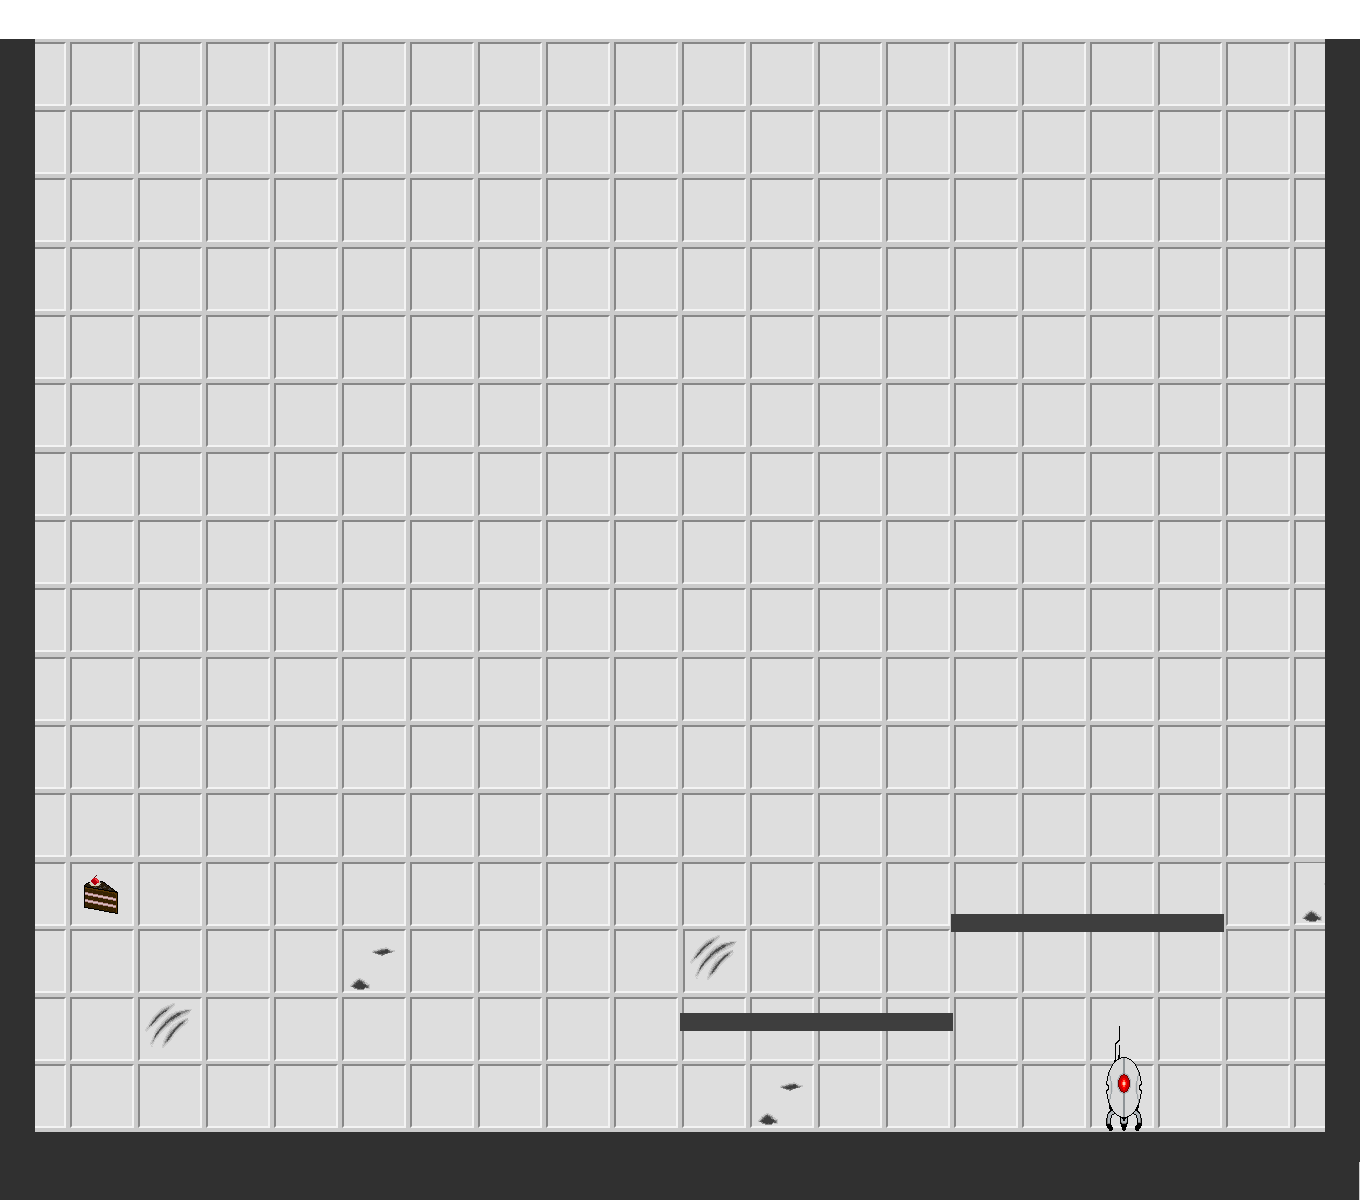
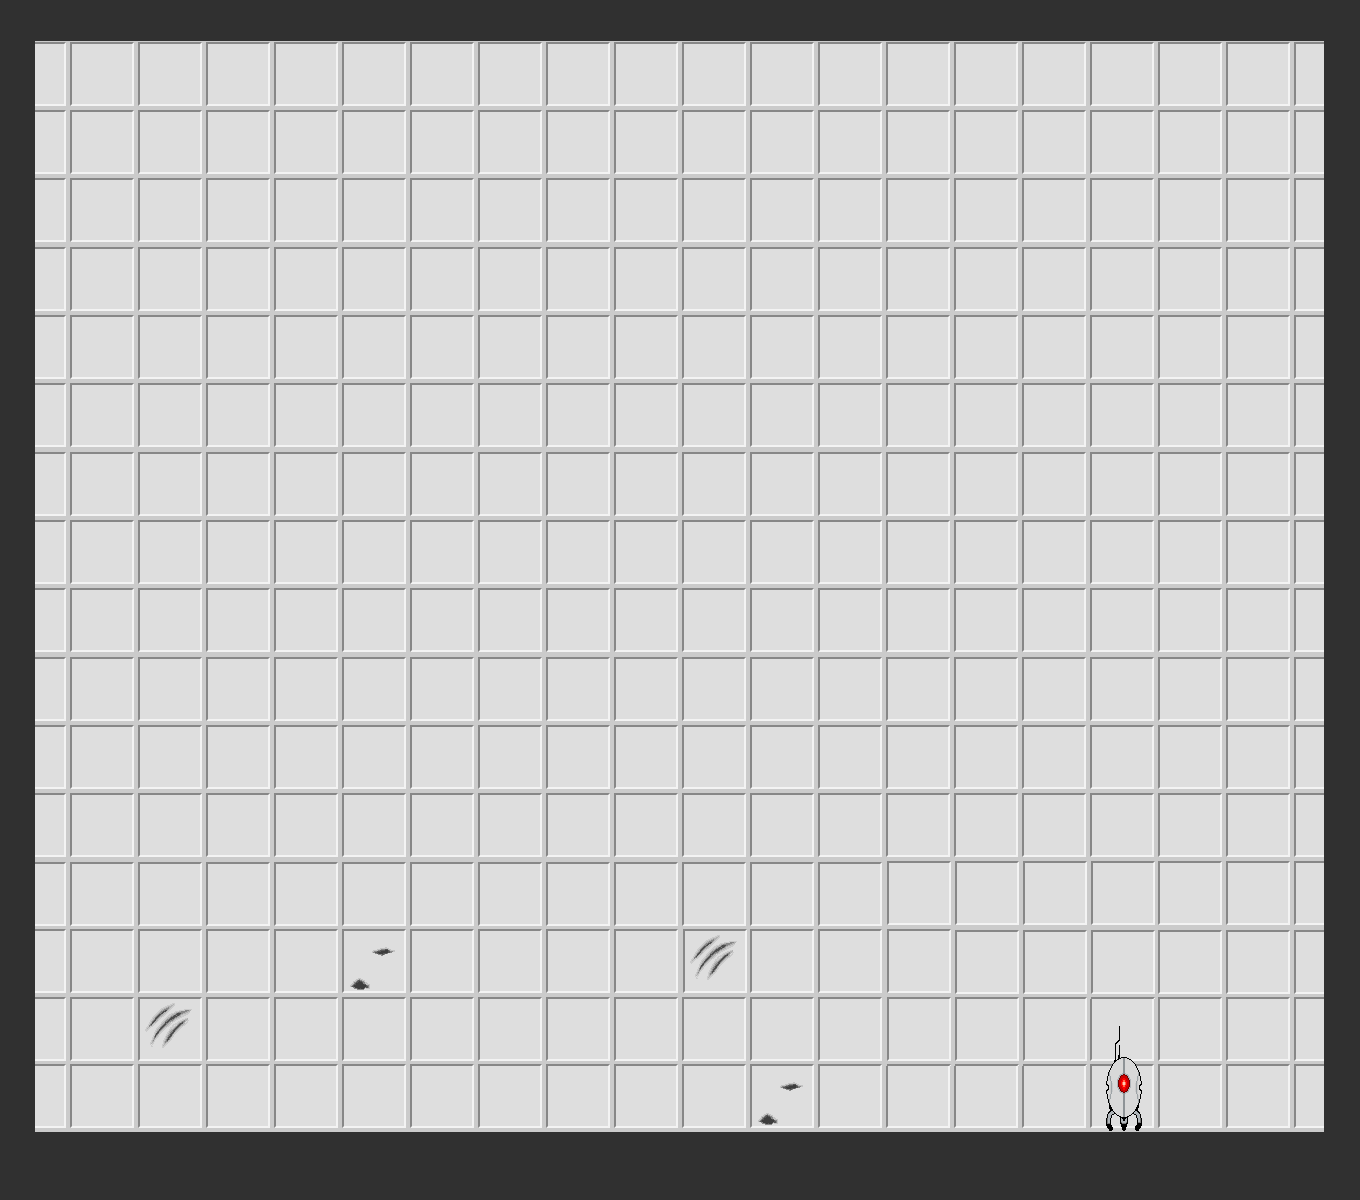
implemented platforms, not yet moving but still they are there

diff --git a/src/gameworlds/Level.java b/src/gameworlds/Level.java
@@ -1,6 +1,6 @@
 package gameworlds;
-
-import java.util.ArrayList;
+import java.util.HashMap;
+import java.util.Map;
 
 import gameengine.*;
 import gameobjects.*;
@@ -28,19 +28,19 @@ public class Level {
 	/** Our Player **/
 	private Player player;
 	/** A vector containing all cubes **/
-	protected ArrayList<CompanionCube> cubes;
+	protected Map<String,CompanionCube> cubes;
 	/** A vector containing all walls **/
-	protected ArrayList<Wall> walls;
+	protected Map<String,Wall> walls;
 	/** A vector containing all doors **/
-	protected ArrayList<Door> doors;
+	protected Map<String,Door> doors;
 	/** A vector containing all platforms **/
-	protected ArrayList<MovingPlatform> platforms;
+	protected Map<String,MovingPlatform> platforms;
 	/** A vector containing all portals **/
-	protected ArrayList<Portal> portals;
+	protected Map<String,Portal> portals;
 	/** A vector containing all switches **/
-	protected ArrayList<LittleSwitch> lilSwitches;
+	protected Map<String,LittleSwitch> lilSwitches;
 	/** A vector containing all switches **/
-	protected ArrayList<BigSwitch> bigSwitches;
+	protected Map<String,BigSwitch> bigSwitches;
 	
 	/** Our physics world **/
 	private World world;
@@ -58,22 +58,20 @@ public class Level {
 		portalWorld = new World(new Vec2(0,0));
 		
 		//Initialises ArrayLists
-		cubes = new ArrayList<CompanionCube>();
-		walls = new ArrayList<Wall>();
-		doors = new ArrayList<Door>();
-		platforms = new ArrayList<MovingPlatform>();
-		portals = new ArrayList<Portal>();
-		lilSwitches = new ArrayList<LittleSwitch>();
-		bigSwitches = new ArrayList<BigSwitch>();	
+		cubes = new HashMap<String,CompanionCube>();
+		walls = new HashMap<String,Wall>();
+		doors = new HashMap<String,Door>();
+		platforms = new HashMap<String,MovingPlatform>();
+		portals = new HashMap<String,Portal>();
+		lilSwitches = new HashMap<String,LittleSwitch>();
+		bigSwitches = new HashMap<String,BigSwitch>();	
 	}
 
 	public void render(Graphics g, boolean debug,Camera cam, GameContainer gc) {
 		RenderEngine.drawBG(bg, cam);
 		RenderEngine.drawGameObject(player, cam);
-		for (CompanionCube cube: cubes) {
-			RenderEngine.drawGameObject(cube,cam);
-			
-		}
+		RenderEngine.drawGameObjects(cubes, cam);
+		RenderEngine.drawPlatforms(platforms, cam);
 		
 	}
 
@@ -111,32 +109,32 @@ public class Level {
 		return portalWorld;
 	}
 	
-	public void addCube(CompanionCube cube){
-		cubes.add(cube);
+	public void addCube(CompanionCube cube, String bodyid){
+		cubes.put(bodyid, cube);
 	}
 	
-	public void addWall(Wall wall){
-		walls.add(wall);
+	public void addWall(Wall wall, String bodyid){
+		walls.put(bodyid,wall);
 	}
 	
-	public void addDoor(Door door){
-		doors.add(door);
+	public void addDoor(Door door, String bodyid){
+		doors.put(bodyid,door);
 	}
 	
-	public void addPortal(Portal portal){
-		portals.add(portal);
+	public void addPortal(Portal portal, String bodyid){
+		portals.put(bodyid,portal);
 	}
 	
-	public void addMovingPlatform(MovingPlatform platform){
-		platforms.add(platform);
+	public void addMovingPlatform(MovingPlatform platform, String bodyid){
+		platforms.put(bodyid,platform);
 	}
 	
-	public void addBigSwitch(BigSwitch s){
-		bigSwitches.add(s);
+	public void addBigSwitch(BigSwitch s, String bodyid){
+		bigSwitches.put(bodyid,s);
 	}
 	
-	public void addLilSwitch(LittleSwitch s){
-		lilSwitches.add(s);
+	public void addLilSwitch(LittleSwitch s, String bodyid){
+		lilSwitches.put(bodyid,s);
 	}
 
 	public int getLevelId() {

diff --git a/src/resourcemanagers/LevelLoader.java b/src/resourcemanagers/LevelLoader.java
@@ -2,6 +2,7 @@ package resourcemanagers;
 
 import gameengine.PhysUtils;
 import gameobjects.CompanionCube;
+import gameobjects.MovingPlatform;
 import gameobjects.Player;
 import gameobjects.Wall;
 import gameworlds.Level;
@@ -139,8 +140,20 @@ public class LevelLoader {
 		
 	}
 
-	private void addElementAsPlatform(Element resourceElement, Level level) {
-		
+	private void addElementAsPlatform(Element resourceElement, Level level) throws SlickException{
+		String imgid = resourceElement.getAttribute("id");
+		Float startx = Float.parseFloat(resourceElement.getAttribute("xStart"));
+		Float starty = Float.parseFloat(resourceElement.getAttribute("yStart"));
+		Float width = Float.parseFloat(resourceElement.getAttribute("width"));
+		Float height = Float.parseFloat(resourceElement.getAttribute("height"));
+		Vec2 startloc = new Vec2(startx,starty);
+		MovingPlatform platform = new MovingPlatform(imgid,startloc, width, height,level.getPhysWolrd());
+
+		Body bdlist = level.getPhysWolrd().getBodyList();
+		platform.setBodyId(bdlist.toString());
+		level.addMovingPlatform(platform, platform.getBodyId());
+		System.out.println("added wall with id: " + bdlist + " to "+ startx + " ," + starty + " ," + width + " ," + height);
+	
 	}
 
 	private void addElementAsTurret(Element resourceElement, Level level) {
@@ -158,7 +171,7 @@ public class LevelLoader {
 
 		Body bdlist = level.getPhysWolrd().getBodyList();
 		wall.setBodyId(bdlist.toString());
-		level.addWall(wall);
+		level.addWall(wall, wall.getBodyId());
 		System.out.println("added wall with id: " + bdlist + " to "+ startx + " ," + starty + " ," + width + " ," + height);
 	
 	}
@@ -173,7 +186,7 @@ public class LevelLoader {
 		CompanionCube cube = new CompanionCube(imgid, startloc, level.getPhysWolrd());
 		Body bdlist = level.getPhysWolrd().getBodyList();
 		cube.setBodyId(bdlist.toString());
-		level.addCube(cube);
+		level.addCube(cube, cube.getBodyId());
 	}
 	
 	private void addElementAsPlayer(Element resourceElement, Level level) throws SlickException{

diff --git a/src/gameengine/RenderEngine.java b/src/gameengine/RenderEngine.java
@@ -1,5 +1,9 @@
 package gameengine;
+import java.util.Map;
+
+import gameobjects.CompanionCube;
 import gameobjects.GameObject;
+import gameobjects.MovingPlatform;
 
 import org.jbox2d.common.Vec2;
 import org.newdawn.slick.Image;
@@ -10,6 +14,13 @@ public class RenderEngine {
 	 * @param obj The GameObject to render.
 	 * @param cam The camera object that defines the field of view.
 	 */
+	
+	public static void drawGameObjects(Map<String, CompanionCube> cubes, Camera cam){
+		for (CompanionCube obj : cubes.values()) {
+			drawGameObject(obj,cam);
+		}
+	}
+	
 	public static void drawGameObject (GameObject obj, Camera cam) {		
 		if (!cam.inView(obj)) {
 			return;
@@ -35,4 +46,13 @@ public class RenderEngine {
 		bg.draw(0, 0, slickCamDim.x, slickCamDim.y, topLeftCoord.x, topLeftCoord.y, bottomRightCoord.x, bottomRightCoord.y);
 		//bg.draw(0,0);
 	}
+
+	public static void drawPlatforms(Map<String, MovingPlatform> platforms,
+			Camera cam) {
+		for (MovingPlatform obj : platforms.values()) {
+			drawGameObject(obj,cam);
+		}		
+	}
+	
+	
 }

diff --git a/src/gamestates/HighScoreState.java b/src/gamestates/HighScoreState.java
@@ -60,10 +60,6 @@ public class HighScoreState extends BasicGameState implements KeyListener{
 			Random rn = new Random();
 			int value = rn.nextInt(2000);
 			scores.set(j, value);
-			
-			
-			
-		
 		} 
 		Collections.sort(scores);
 	}
@@ -115,7 +111,6 @@ public class HighScoreState extends BasicGameState implements KeyListener{
 			int stateid=Portal2D.HIGHSCORESTATE;
 			switch (selected){
 			case 1:
-				LoadingState.loadLevel(sbg,0);
 				stateid=Portal2D.MAINMENUSTATE;
                 break;
 			}
@@ -176,11 +171,6 @@ public class HighScoreState extends BasicGameState implements KeyListener{
 	public static void setStringMaps(Map<String, Integer> strings) {
 		stringMaps = strings;
 	}
-	
-	
-	
-	
-	
 	
 	public static HighScoreState getInstance()
     {

diff --git a/src/gameobjects/Player.java b/src/gameobjects/Player.java
@@ -14,6 +14,10 @@ public class Player extends GameObject{
 	private Image sprite_right;
 	private Image sprite_left; 
 	
+	/** Variables for intereaction **/
+	@SuppressWarnings("unused")
+	private boolean carryingcube=false;
+	
 	// Constants related to player movement
 	private final float maxRunVelocity = 5;
 	private final float accelFactor = 0.02f;
@@ -90,6 +94,7 @@ public class Player extends GameObject{
 		WorldManifold wm = new WorldManifold();
 		while (edge != null) {
 			edge.contact.getWorldManifold(wm);
+			
 			//We want to check if any of the bodys we are in contact with are interactabe and if so 
 			// do the right thin.
 		}

diff --git a/src/gameobjects/MovingPlatform.java b/src/gameobjects/MovingPlatform.java
@@ -8,10 +8,9 @@ import org.newdawn.slick.SlickException;
 
 public class MovingPlatform extends GameObject {
 
-	public MovingPlatform(String imgloc, Vec2 location, World world)
+	public MovingPlatform(String imgid, Vec2 location, float width, float height, World world)
 			throws SlickException {
-		super(imgloc, location, world, PhysUtils.KINEMATIC);
-		// TODO Auto-generated constructor stub
+		super(imgid,location,world, PhysUtils.STATIC);
 	}
 
 }
